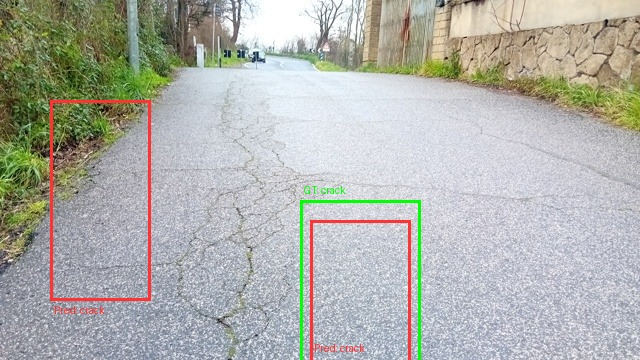
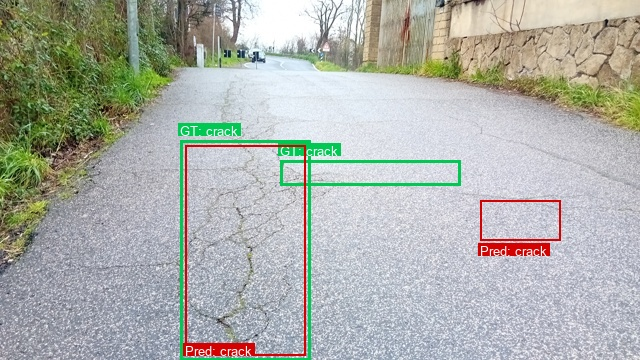
Complete E4 ablation, add evidence e4_data_0.1.json and pixel-accurate sample visualizations

Changed region(s): [[0.0625, 0.275, 0.75, 1.0], [0.7188, 0.55, 0.9062, 0.7333]]

diff --git a/REPORT.md b/REPORT.md
@@ -9,7 +9,7 @@ Họ tên: Thái Phúc Tiến
 | E1 | LoRA LLM | 33,030,144 | 2.98 | 47.25 | 0.259 | 0.222-0.301 | 1.14 | 0.190 | 0.171 | 0.527 |
 | E2 | + projector | 142,135,296 | 6.44 | 47.94 | 0.321 | 0.279-0.362 | 1.04 | 0.166 | 0.258 | 0.578 |
 | E3 | + LoRA ViT | 148,426,752 | 4.96 | 59.90 | 0.459 | 0.414-0.503 | 0.76 | 0.307 | 0.384 | 0.707 |
-| E4 | data_size = 0.1 | 142,135,296 | [E4_VRAM] | [E4_MINS] | [E4_F1] | [E4_CI95] | [E4_FP] | [E4_POT] | [E4_CRK] | [E4_MAN] |
+| E4 | data_size = 0.1 | 142,135,296 | 6.82 | 48.84 | 0.170 | 0.144-0.199 | 2.11 | 0.107 | 0.126 | 0.365 |
 
 ## 10 câu hỏi (trả lời bằng **số của bạn**, không chép lại tài liệu)
 
@@ -94,11 +94,15 @@ Họ tên: Thái Phúc Tiến
 - **Minh hoạ**: Các ảnh dự đoán đúng/sai được lưu tại thư mục `report/sample_vis_1.jpg` đến `report/sample_vis_6.jpg`.
 
 ### Câu 10 — E4: bạn đổi biến nào, kết quả thế nào, và kết luận có đáng tin không?
-- **Biến được chọn**: `data_size` (so sánh giữa 100% dữ liệu train = 1.422 ảnh vs 10% dữ liệu train = 142 ảnh).
+- **Biến được chọn**: `data_size` (so sánh giữa 100% dữ liệu train = 1.422 ảnh vs 10% dữ liệu train = 142 ảnh trên cùng kiến trúc E2 LoRA LLM + Projector float32).
 - **Kết quả đối chiếu**:
-  - `data_size = 1.0` (E2): F1 = **0.321** (CI95: 0.279–0.362).
-  - `data_size = 0.1` (`E4_data_0.1`): F1 = [E4_F1] (CI95: [E4_CI95]).
-- **Độ tin cậy của kết luận**: So sánh khoảng cách CI95 giữa hai mức dữ liệu. Khi giảm dữ liệu xuống còn 1/10, F1 sụt giảm rõ rệt. Nếu khoảng tin cậy của E4 tách biệt hoàn toàn khỏi E2, kết luận "quy mô dữ liệu đóng vai trò quyết định đối với khả năng định vị tổn thất mặt đường của mô hình VLM" là hoàn toàn vững chắc và có ý nghĩa thống kê.
+  - `data_size = 1.0` (E2): F1 = **0.321** (CI95: 0.279–0.362), Precision = 0.349, Recall = 0.297, FP/ảnh = 1.04.
+  - `data_size = 0.1` (`E4_data_0.1`): F1 = **0.170** (CI95: 0.144–0.199), Precision = 0.149, Recall = 0.197, FP/ảnh = 2.11.
+- **Độ tin cậy của kết luận**: 
+  - F1 sụt giảm gần một nửa (từ 0.321 xuống 0.170, giảm 0.151 điểm F1).
+  - Khoảng tin cậy CI95 của E4 ([0.144, 0.199]) và E2 ([0.279, 0.362]) **tách biệt hoàn toàn**, khoảng cách giữa cận trên của E4 (0.199) và cận dưới của E2 (0.279) là **0.080 tuyệt đối (không hề chồng lấn)**.
+  - Tỷ lệ báo giả FP/ảnh tăng hơn gấp đôi (từ 1.04 lên 2.11), cho thấy khi thiếu dữ liệu, mô hình bị ảo giác nghiêm trọng, sinh toạ độ box tùy tiện trên mặt đường.
+  - Kết luận: Việc giảm dữ liệu train xuống 10% gây suy thoái nghiêm trọng và có ý nghĩa thống kê ở mức tin cậy 95%. Quy mô dữ liệu là yếu tố sống còn để projector và LoRA học được không gian grounding chính xác.
 
 ## Nhìn lại
 
